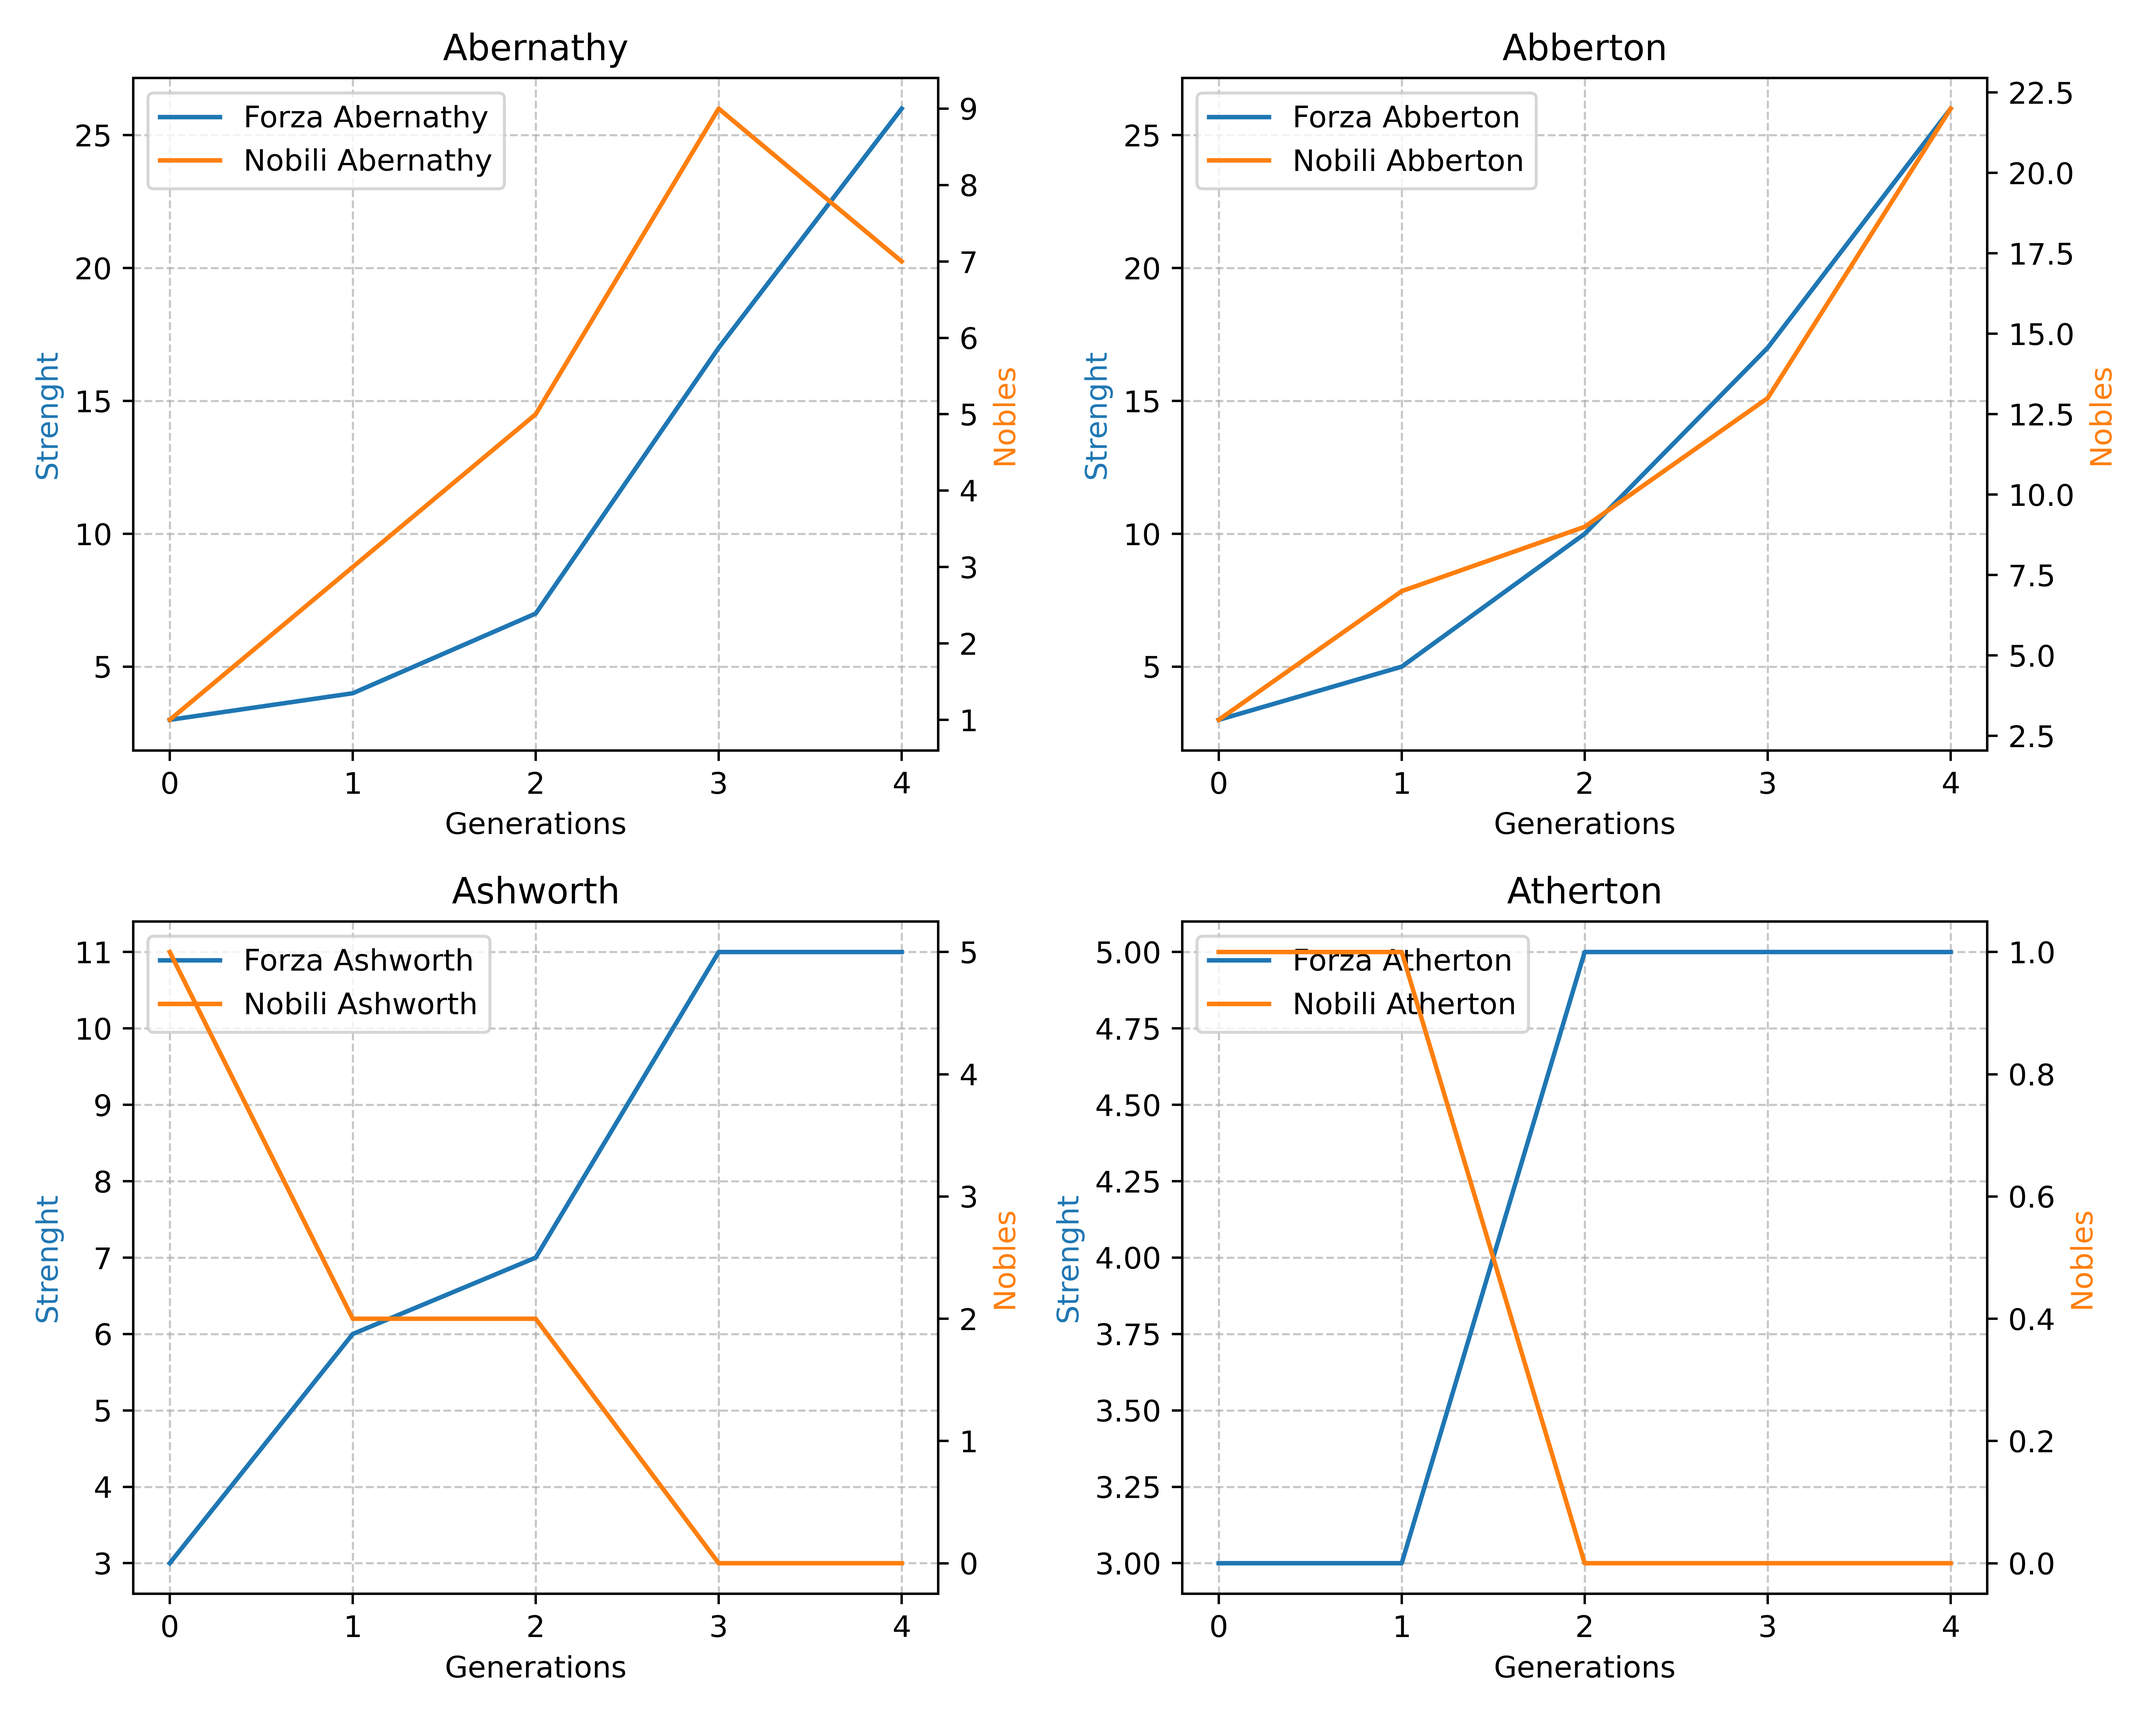
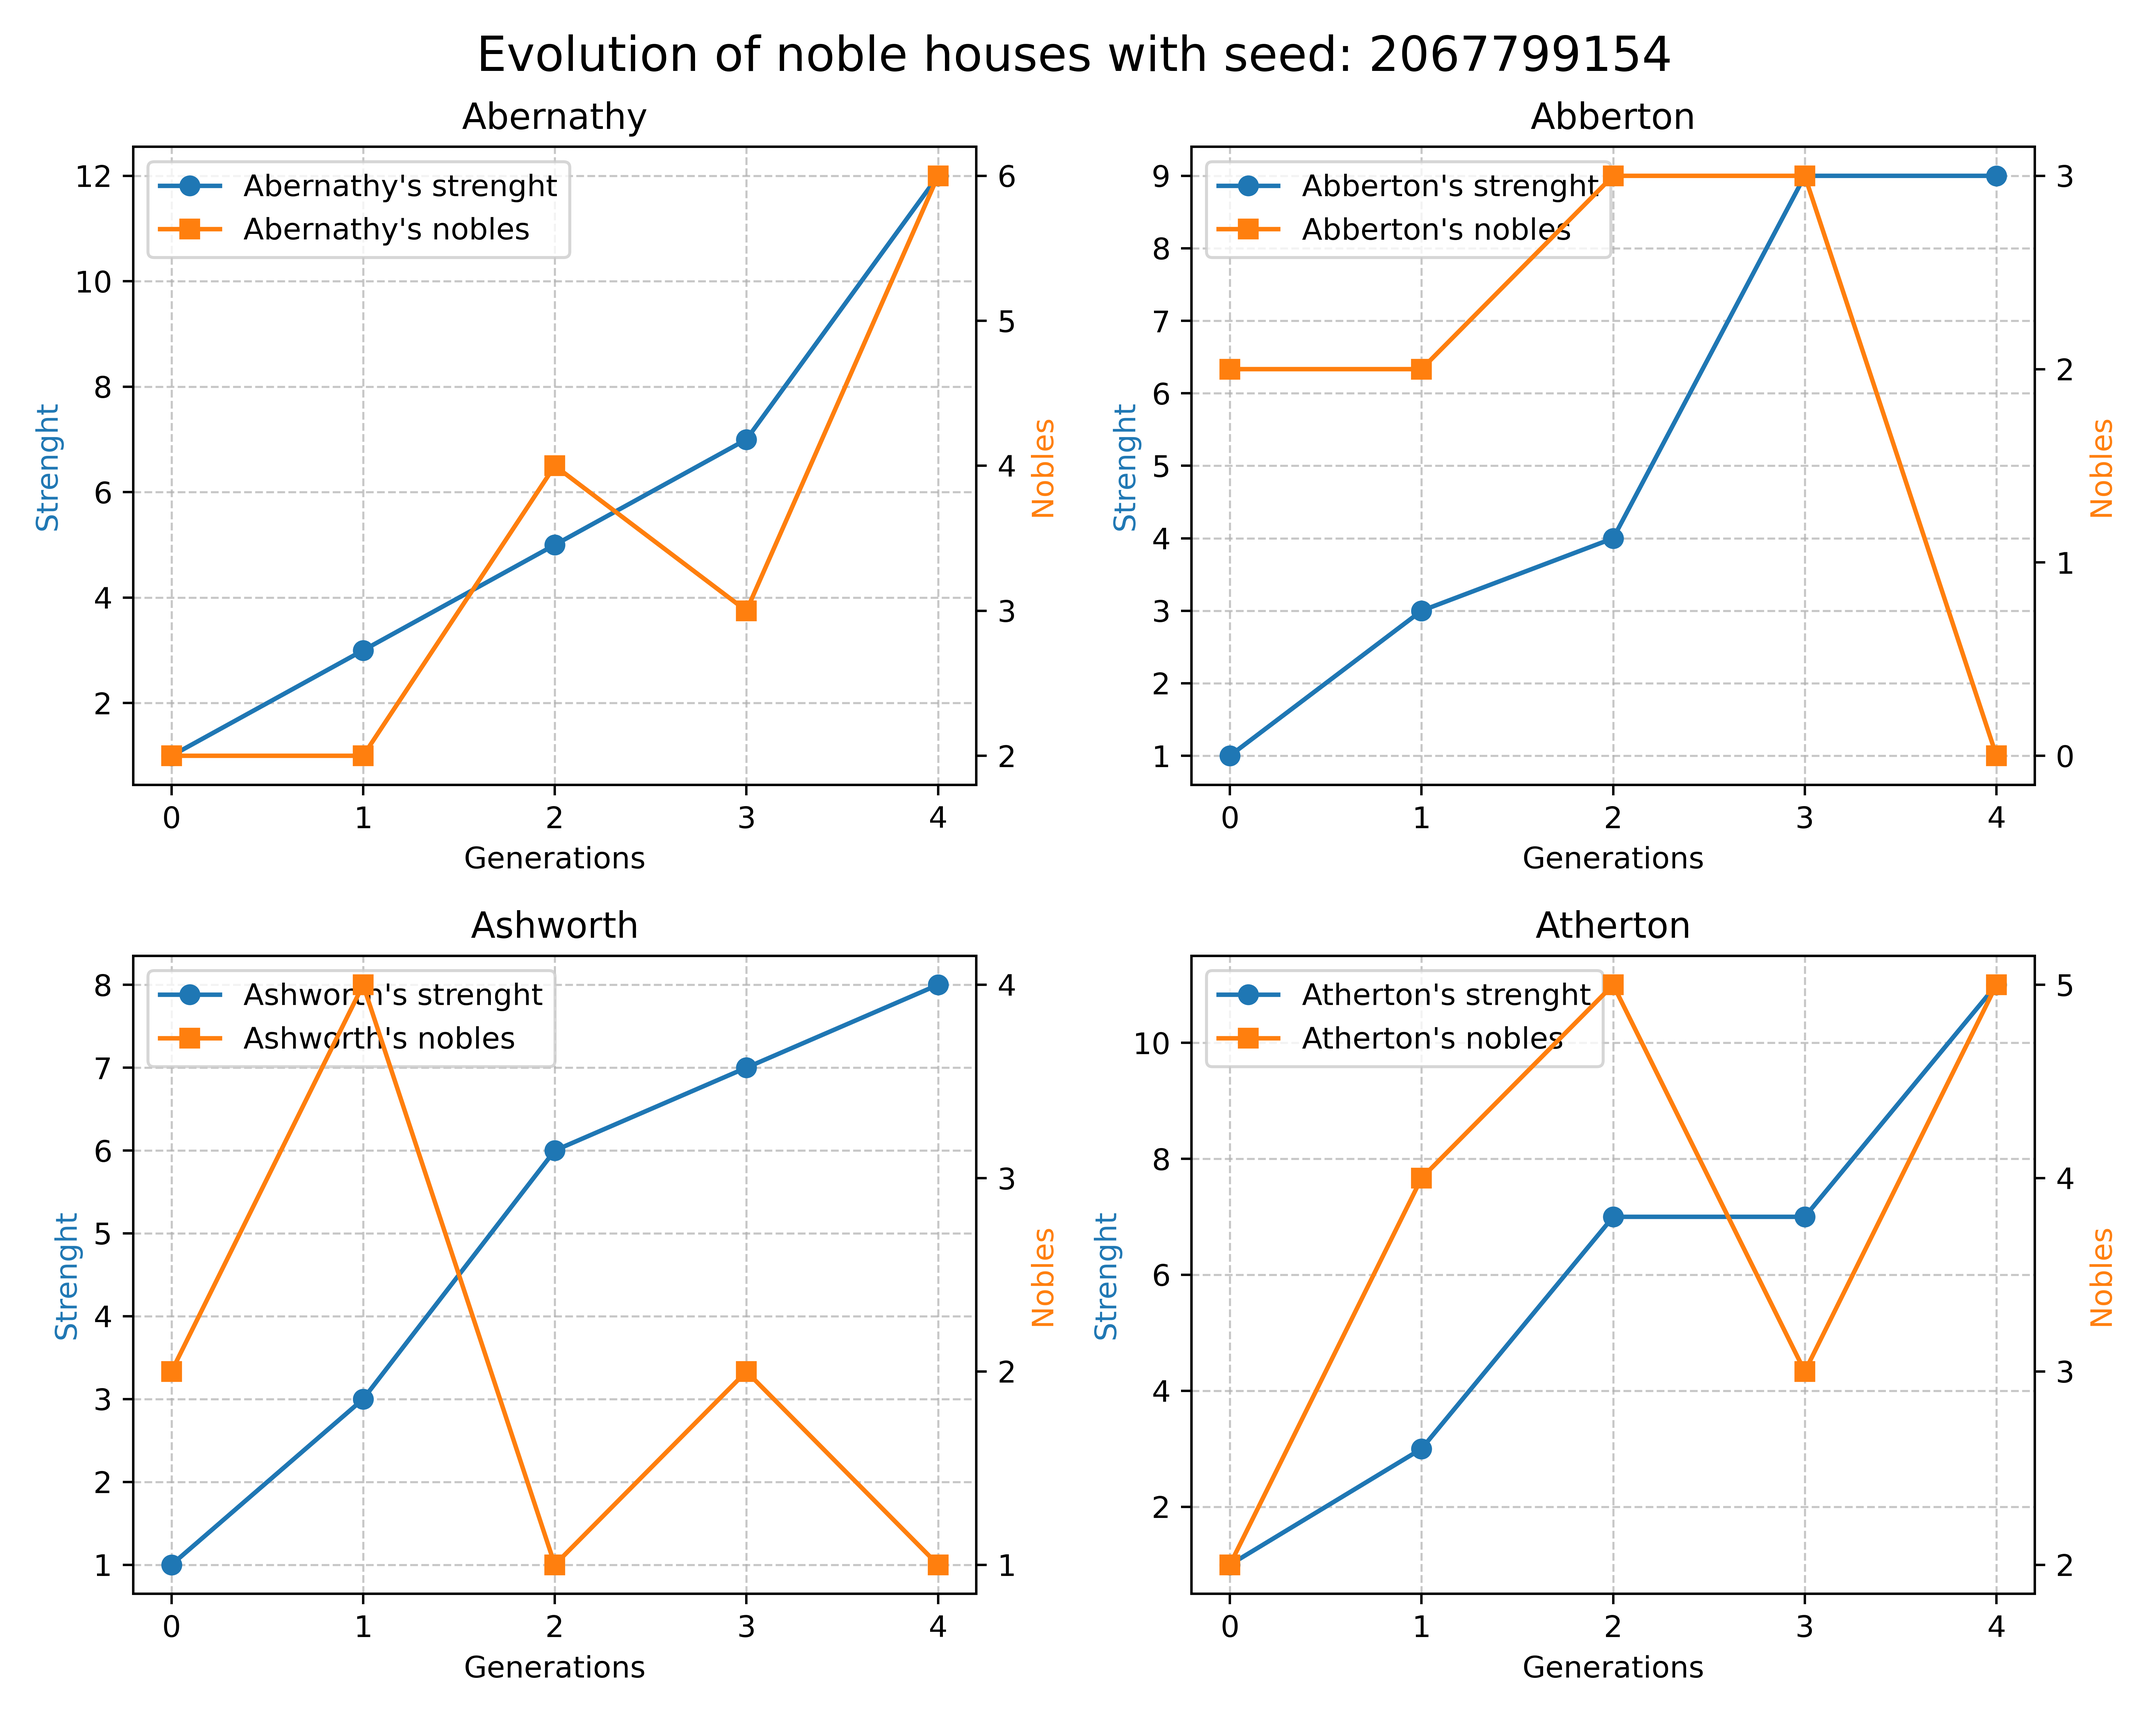
v1.5

diff --git a/Nobile.h b/Nobile.h
@@ -17,17 +17,24 @@ class Nobile {
         int m_forzaNob;
         int m_nfigli;
         bool m_dasposare;
+        bool m_alreadyMarried;
 
         bool m_gender; // 0: femmina, 1: maschio
 
     public:
-        Nobile(int gender, bool dasposare) : m_gender(gender), m_dasposare(dasposare), m_nfigli(0) {}
+        Nobile(int gender, bool dasposare) : m_gender(gender), m_dasposare(dasposare), m_nfigli(0), m_alreadyMarried(false) {}
 
         void setFigli(int figli) { m_nfigli = figli; }
         int getFigli() const { return m_nfigli; }
 
         void setDaSposare(bool dasposare) { m_dasposare = dasposare; }
         bool getDaSposare() const { return m_dasposare; }
+
+        void setAlreadyMarried(bool married) {
+            setDaSposare(!married);
+            m_alreadyMarried = married;
+        }
+        bool getAlreadyMarried() const { return m_alreadyMarried; }
 
         bool getGender() const { return m_gender; }
 
@@ -82,8 +89,7 @@ class Casata : public vector<Nobile*> {
             }
         }       
 
-        // sposa un nobile con un'altro generando un numero di figli e assegnandoli alla casata del padre
-        // infine elimina i nobili genitori
+        // sposa un nobile con un altro generando un numero casuale di figli e assegnandoli alla casata del padre
         void honeymoon(Nobile* nob, Nobile* coniuge, Casata* casaConiuge) {
             nob->calcolaFigli(coniuge, m_gen);
 
@@ -113,17 +119,19 @@ class Casata : public vector<Nobile*> {
                 casaPadre->push_back(new Nobile(rand01, daNONsposare));
             }
 
-            coniuge->setDaSposare(false);
-            nob->setDaSposare(false);
+            coniuge->setAlreadyMarried(true);
+            nob->setAlreadyMarried(true);
+
             
         }
 
         // Setta dasposare = true in ogni nobile nel vettore Casata per la nuova generazione
-        // E uccide tutti i nobili che non si sono sposati nella scorsa generazione (lol)
+        // E uccide tutti i nobili che si sono gia' sposati
         void resetDaSposare() {
             auto it = begin();
             while (it != end()) {
-                if ((*it)->getFigli() > 0) {
+                // deletes all nobles that have married in the previous generation
+                if ((*it)->getAlreadyMarried()) { 
                     delete *it;
                     it = erase(it); // erase returns the next valid iterator
                 } else {
@@ -182,8 +190,8 @@ class listaCasate : public vector<Casata*> {
             return nob;
         }
 
-        Nobile* gayMarriage() {;} // yet to implement
-        Nobile* sweetHomeAlabama() {;} // Searches for a partner within the house of a given noble. Yet to implement
+        Nobile* gayMarriage() { return nullptr;} // yet to implement
+        Nobile* sweetHomeAlabama() { return nullptr; } // Searches for a partner within the house of a given noble. Yet to implement
 
         // Crea un ordinamento tra le classi per sortare i vettori
         static bool compPtr(const Casata* casa1, const Casata* casa2) {

diff --git a/plot.py b/plot.py
@@ -1,4 +1,5 @@
 import matplotlib.pyplot as plt # type: ignore
+import matplotlib.ticker as ticker # type: ignore
 import numpy as np # type: ignore
 import math
 
@@ -32,10 +33,13 @@ file = open("generations.out", "r")
 
 listaCasate = []
 
+list_of_integer_lines = []
+
 current_gen = 0
 for line in file.readlines():
     try:
         current_gen = int(line)
+        list_of_integer_lines.append(current_gen)
     except:
         datiLinea = line.split()
         cognome = datiLinea[0]
@@ -60,7 +64,7 @@ num_casate = len(listaCasate)
 ncols = math.ceil(math.sqrt(num_casate))
 nrows = math.ceil(num_casate / ncols)
 
-figure, axes = plt.subplots(nrows, ncols, figsize=(5*ncols, 4*nrows))
+figure, axes = plt.subplots(nrows, ncols, figsize=(5*ncols, 4*nrows), num="Noble houses\' evolution")
 
 # Flatten axes for easy iteration, in case of 2D array
 axes = np.array(axes).flatten()
@@ -69,8 +73,8 @@ for idx, casa in enumerate(listaCasate):
     ax1 = axes[idx]
     ax2 = ax1.twinx()  # Create a secondary y-axis for noble count
 
-    l1, = ax1.plot(casa.m_evoluzioneForza, color='tab:blue', label=f"Forza {casa.getCognome()}")
-    l2, = ax2.plot(casa.m_arrNumNobili, color='tab:orange', label=f"Nobili {casa.getCognome()}")
+    l1, = ax1.plot(casa.m_evoluzioneForza, color='tab:blue', label=f"{casa.getCognome()}'s strenght",marker='o')
+    l2, = ax2.plot(casa.m_arrNumNobili, color='tab:orange', label=f"{casa.getCognome()}'s nobles",marker='s')
 
     ax1.set_title(casa.getCognome())
     ax1.set_ylabel("Strenght", color='tab:blue')
@@ -79,6 +83,10 @@ for idx, casa in enumerate(listaCasate):
 
     ax1.grid(True, linestyle='--', linewidth=0.7, alpha=0.7)
 
+    # Force integer ticks on all axes
+    ax1.xaxis.set_major_locator(ticker.MaxNLocator(integer=True))
+    ax1.yaxis.set_major_locator(ticker.MaxNLocator(integer=True))
+    ax2.yaxis.set_major_locator(ticker.MaxNLocator(integer=True))
 
     # Combine legends
     lines = [l1, l2]
@@ -89,6 +97,7 @@ for idx, casa in enumerate(listaCasate):
 for ax in axes[len(listaCasate):]:
     ax.set_visible(False)
 
-plt.tight_layout()
+plt.tight_layout(rect=[0, 0, 1, 0.96])
+plt.suptitle("Evolution of noble houses with seed: " + str(list_of_integer_lines[0]), fontsize=16)
 plt.savefig("plot.png", dpi=700)
 plt.show()

diff --git a/main.cpp b/main.cpp
@@ -27,10 +27,10 @@ inline void rtrim(string &s) {
 int main(int argc, char** argv) {
 
     if (argc < 4) {
-        cout << "Utilizzo: " << argv[0] << " <seed> <n_casate(max706)> <n_generazioni>" << endl;
+        cout << "Utilizzo: " << argv[0] << " <seed(32-bit)> <n_casate(max706)> <n_generazioni>" << endl;
         return -1;
     }
-    int seed = atoi(argv[1]);
+    unsigned long long int seed = atoi(argv[1]);
     mt19937 gen(seed);
 
     int nCasate = stoi(argv[2]);
@@ -64,6 +64,18 @@ int main(int argc, char** argv) {
     }
 
     filenomi.close();
+
+
+    // outputs data of the generation 0 (initial values)
+    fstream outgen;
+    outgen.open("generations.out", ios::app);
+    outgen << seed << endl;
+    outgen << 0 << endl; // gen = 0
+
+    for (Casata* casa : casate) 
+        outgen << casa->getCognome() << " " << casa->getForzaCasa() << " " << casa->size() << " " << 0 << endl;
+    
+    outgen.close();
 
 
     casate.eseguiNgenerazioni();

diff --git a/README.md b/README.md
@@ -53,7 +53,7 @@ g++ -std=c++17 -o fight main.cpp
 ./fight <seed> <n_houses> <n_generations>
 ```
 
-- `<seed>`: Random seed (integer)
+- `<seed>`: Random seed (32-bit integer)
 - `<n_houses>`: Number of houses (max: 705)
 - `<n_generations>`: Number of generations to simulate
 
